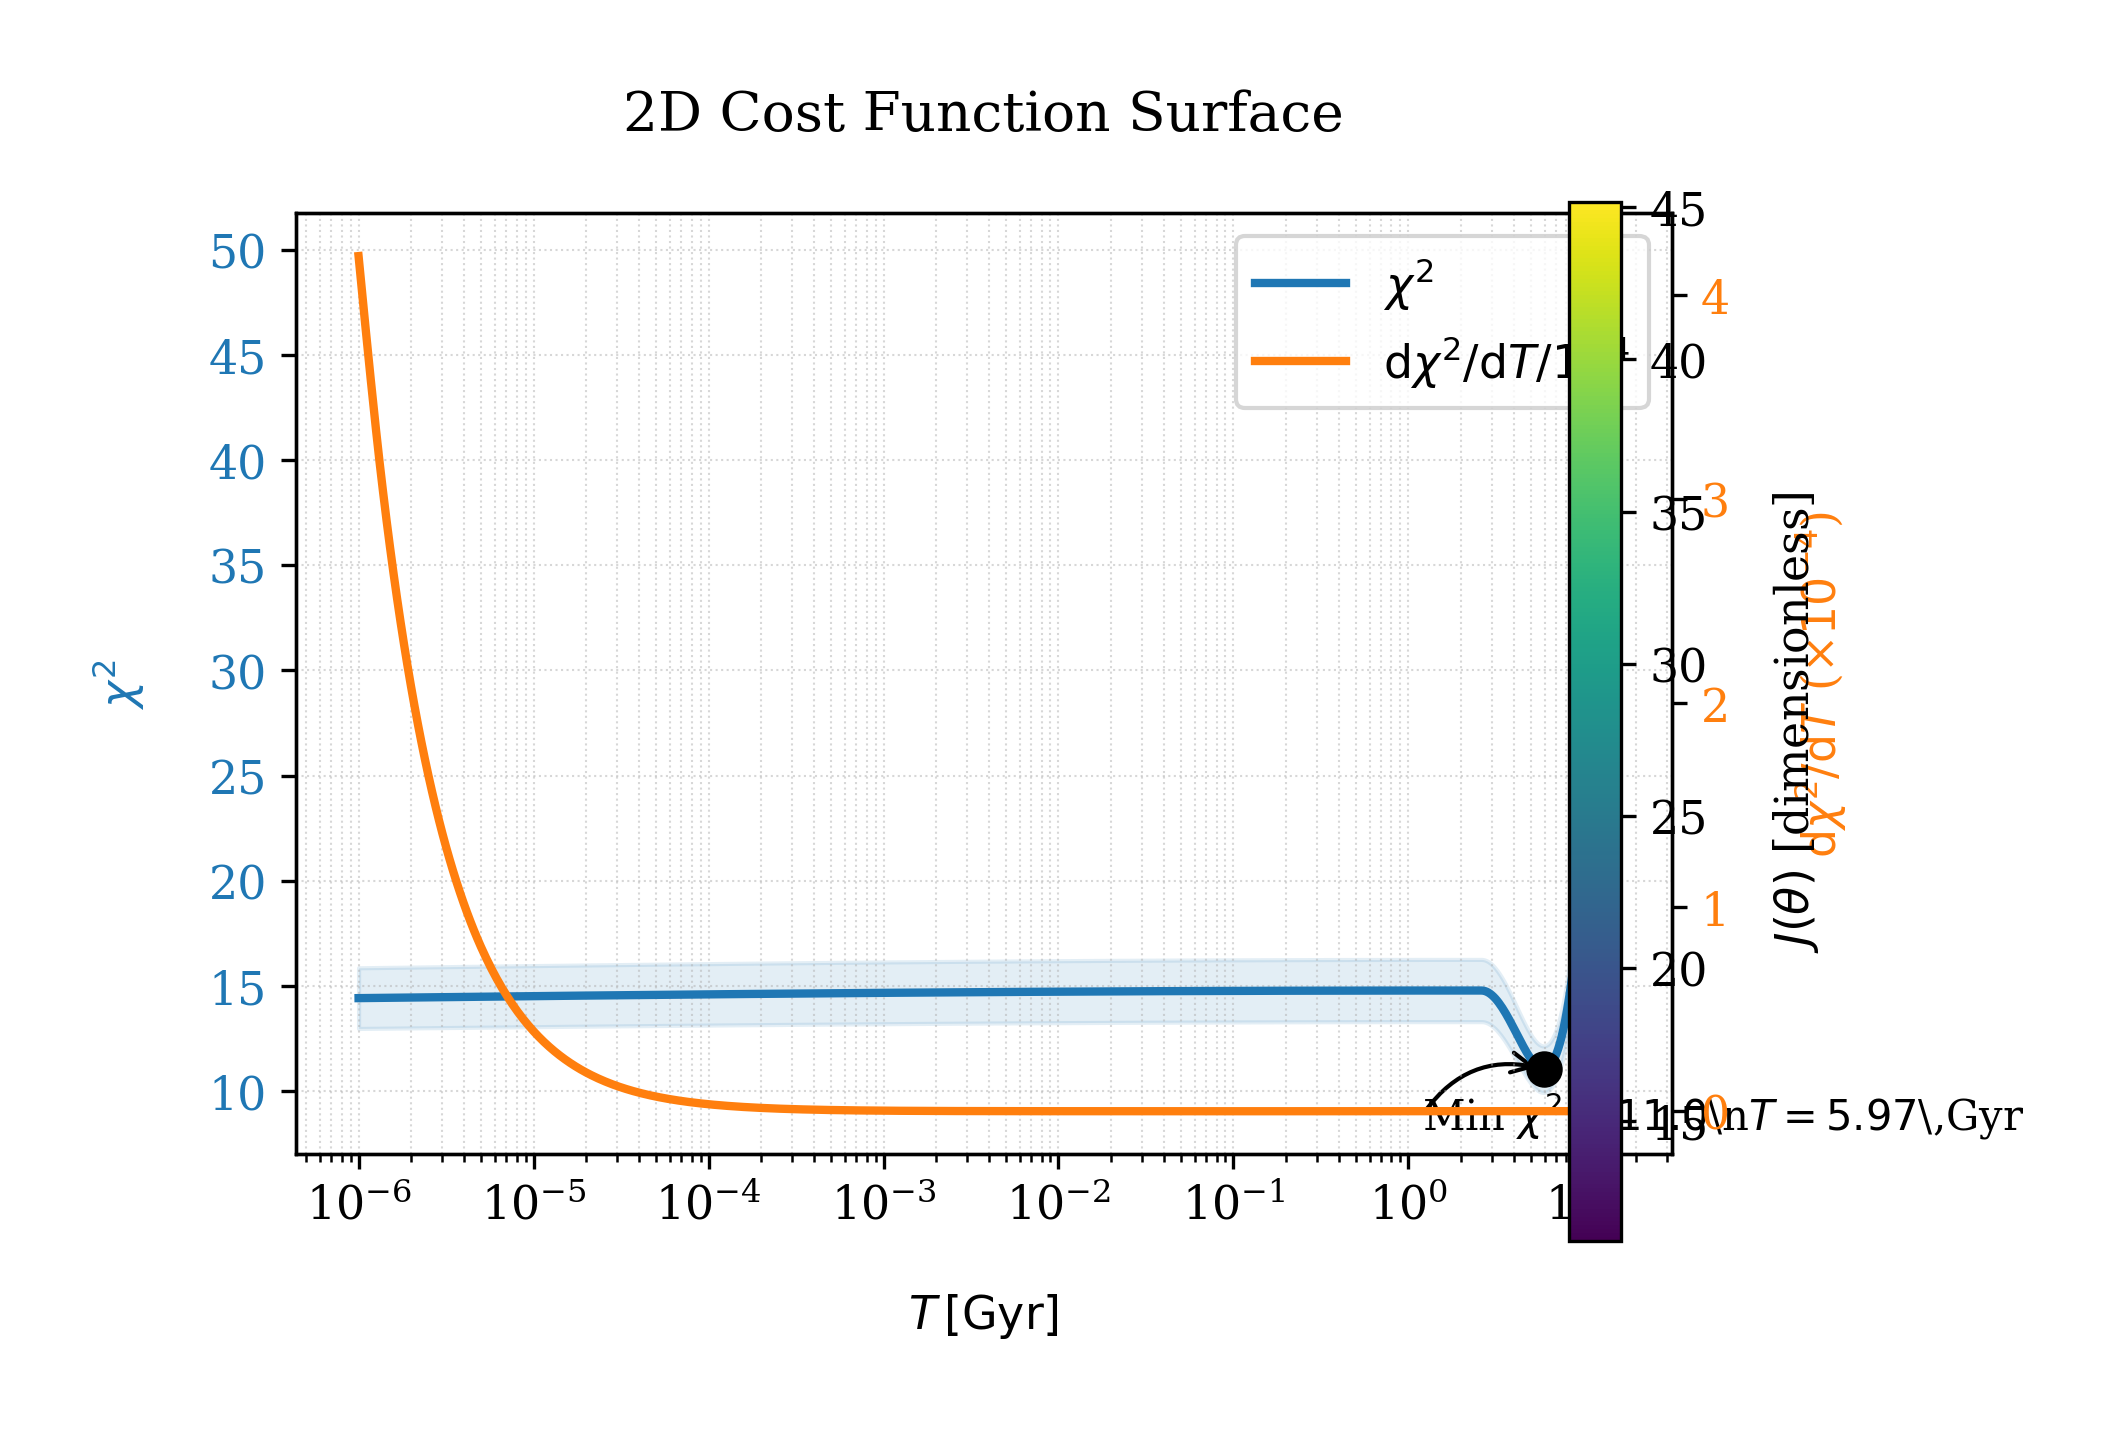
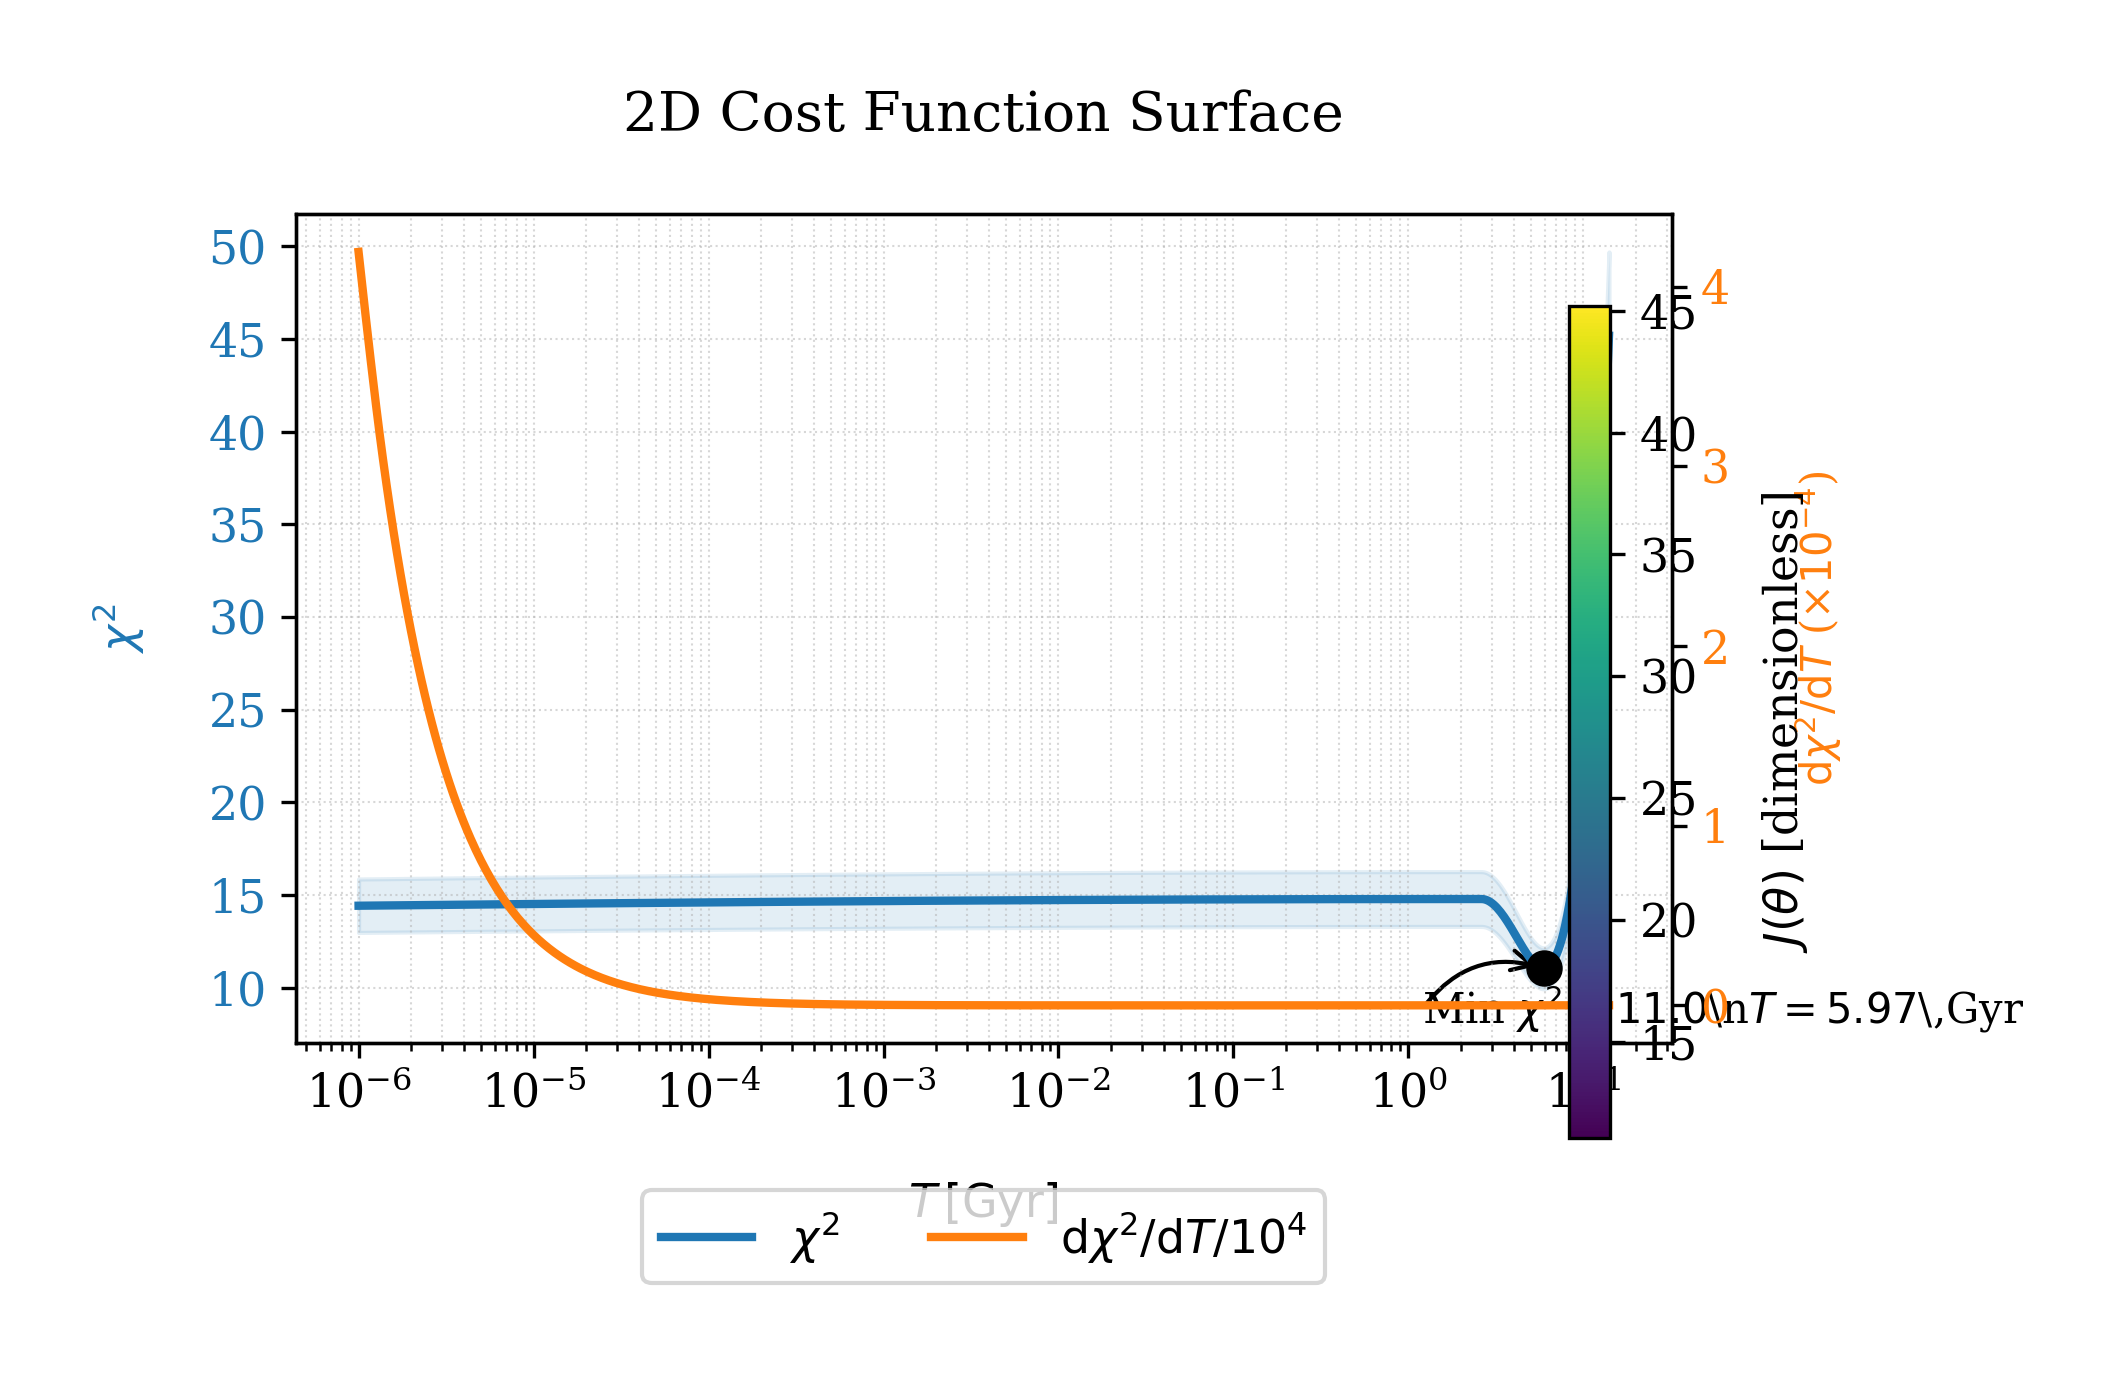
fix(viz): final cleanup of CH05 duplicates and overlap resolution

diff --git a/zz-scripts/chapter05/05_fig_04_cost_surface.py b/zz-scripts/chapter05/05_fig_04_cost_surface.py
@@ -201,7 +201,7 @@ def main(args=None) -> None:
 
     # axe secondaire pour la dérivée
     ax2 = ax1.twinx()
-    ax2.set_ylabel(r"$\mathrm{d}\chi^2/\mathrm{d}T$ (×$10^{-4}$)", color="tab:orange")
+    ax2.set_ylabel(r"$\mathrm{d}\chi^2/\mathrm{d}T$ (×$10^{-4}$)", color="tab:orange", fontsize=10)
     ax2.tick_params(axis="y", labelcolor="tab:orange")
     (l2,) = ax2.plot(
         T,
@@ -236,7 +236,9 @@ def main(args=None) -> None:
     ax1.legend(
         handles=[l1, l2],
         labels=[r"$\chi^2$", r"$\mathrm{d}\chi^2/\mathrm{d}T/10^4$"],
-        loc="upper right",
+        loc="upper center",
+        bbox_to_anchor=(0.5, -0.15),
+        ncol=2,
     )
 
     sm = ScalarMappable(
@@ -244,7 +246,7 @@ def main(args=None) -> None:
         cmap="viridis",
     )
     sm.set_array([])
-    cbar = plt.colorbar(sm, ax=[ax1, ax2], pad=0.02)
+    cbar = plt.colorbar(sm, ax=[ax1, ax2], pad=0.15, shrink=0.8)
     cbar.set_label(r"$J(\theta)$ [dimensionless]")
 
     fig.subplots_adjust(left=0.04, right=0.98, bottom=0.06, top=0.96)

diff --git a/zz-scripts/chapter05/05_fig_03_correlation.py b/zz-scripts/chapter05/05_fig_03_correlation.py
@@ -91,10 +91,6 @@ def tracer_fig03_yp_modele_contre_obs(
     # Tracer les jalons avec barres d'erreur horizontales
     ax.errorbar(Yp_obs, Yp_calc, xerr=sigma_Yp, fmt="o", capsize=3, label="Jalons Yp")
 
-    # Mettre en échelle log–log
-    ax.set_xscale("log")
-    ax.set_yscale("log")
-
     # Étendre la droite y = x sur toute la plage visible
     ax.set_aspect("equal", "box")
     # obtenir limites communes
@@ -107,9 +103,7 @@ def tracer_fig03_yp_modele_contre_obs(
     ax.set_xlim(lims)
     ax.set_ylim(lims)
 
-    fmt = ScalarFormatter(useMathText=True)
-    fmt.set_powerlimits((0, 0))
-    ax.xaxis.set_major_formatter(fmt)
+    ax.ticklabel_format(style="sci", axis="x", scilimits=(0, 0), useMathText=True)
 
     # Labels et titre
     ax.set_xlabel(r"$\alpha$")
